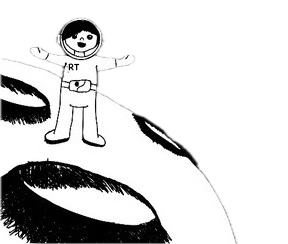
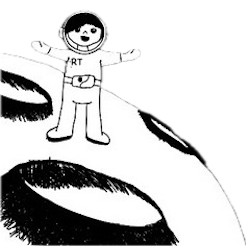
adjusted background-img text content containing  page name sizing and position

diff --git a/src/assets/imageSource.css b/src/assets/imageSource.css
@@ -10,8 +10,10 @@
 }
 .background-img span {
   position: absolute;
-  top: 170px;
-  left: 45px;
+  top: 65px;
+  left: 47px;
+  width: 110px;
+  text-align: center;
   font-size: 1.3em;
   background-color: #000000af;
   border: ridge azure 3px;

diff --git a/src/assets/App.css b/src/assets/App.css
@@ -64,6 +64,10 @@
   width: 55%;
 }
 
+/* UTILITIES */
+/* UTILITIES */
+/* UTILITIES */
+
 .increase-z {
   position: relative;
   z-index: 1;
